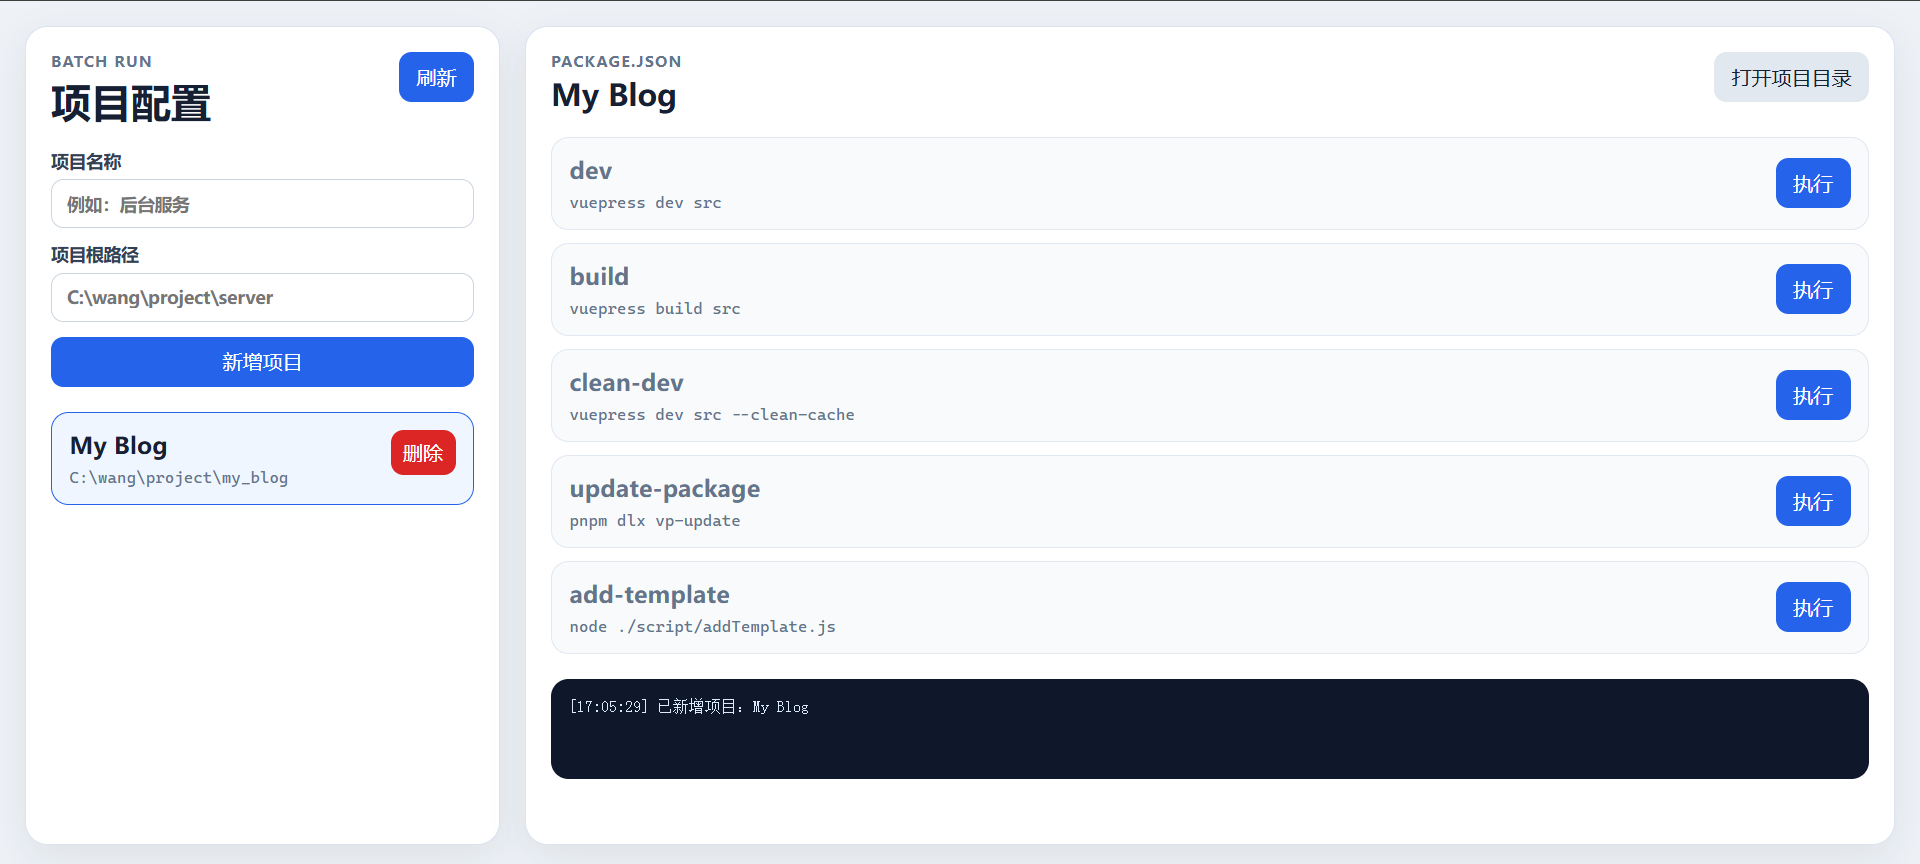
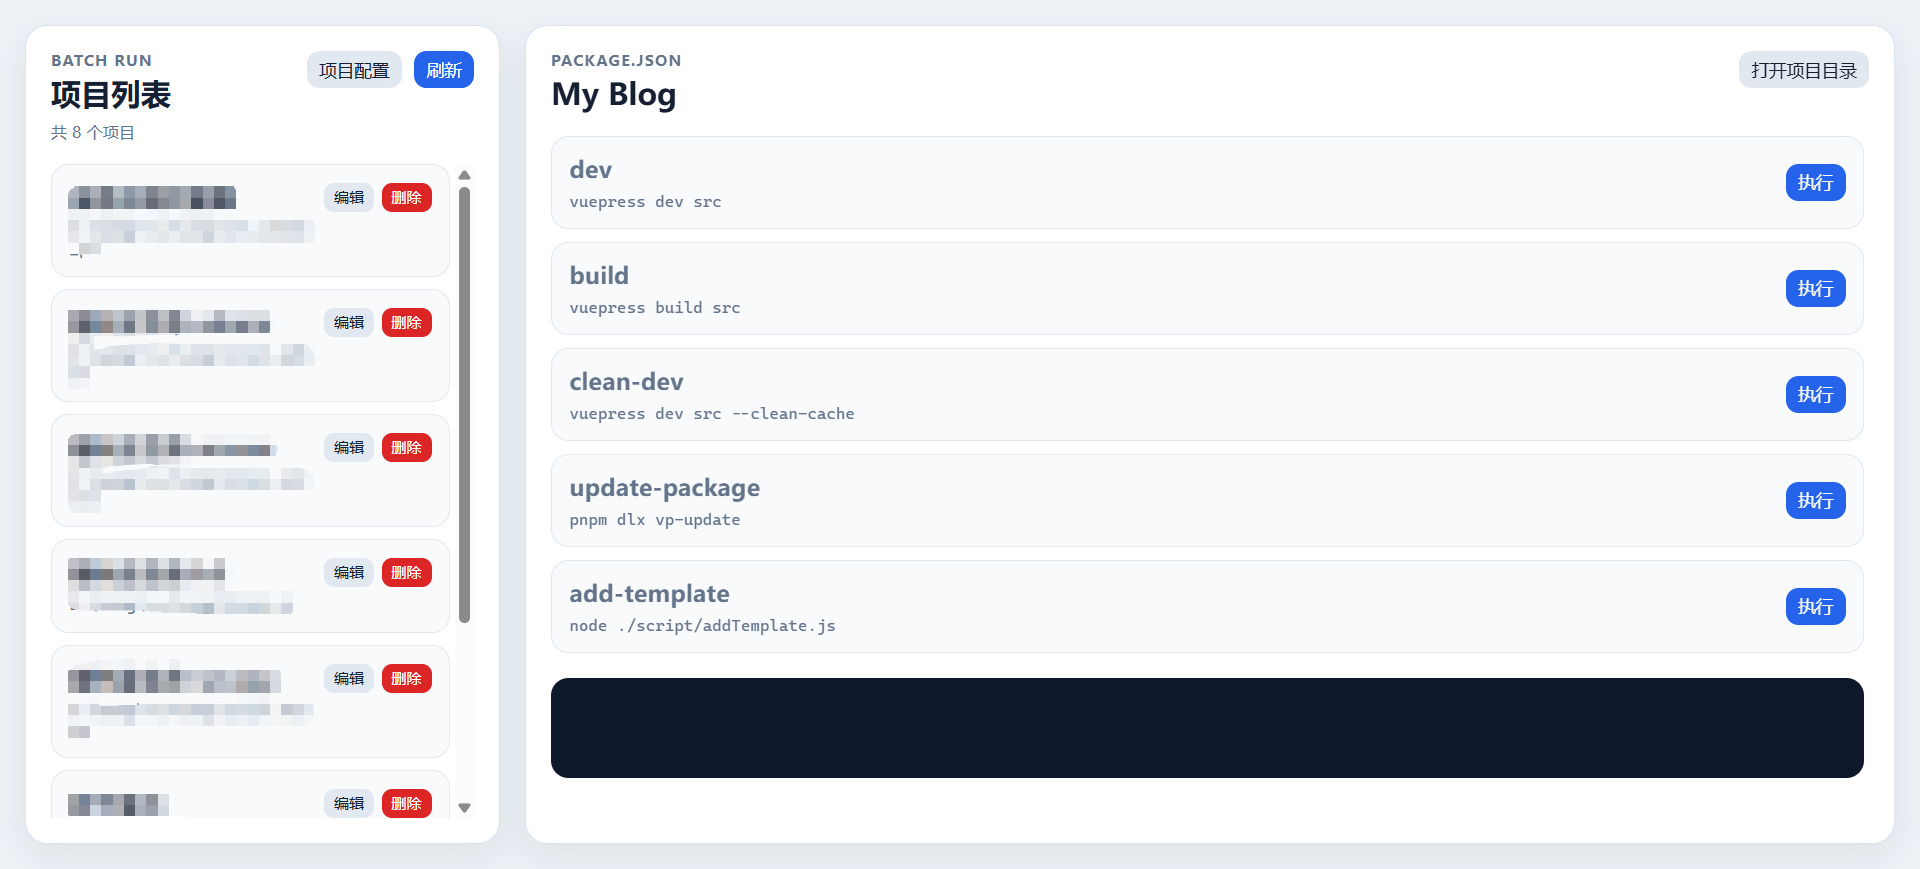
docs: 重新梳理文档

diff --git a/src/Tool/batch-run-local.md b/src/Tool/batch-run-local.md
@@ -39,9 +39,31 @@ npm install -g batch-run-local
 br
 ```
 
-直接执行 `br` 会打开交互菜单，可选择新增项目、启动项目、查看项目、删除项目、打开 Web 页面或修改配置。
+直接执行 `br` 会打开交互菜单，界面如下。
 
-## 3. 添加项目
+![br 命令菜单](./imgs/ui02.png)
+
+## 3. 可视化操作界面
+
+```shell
+br ui
+```
+
+执行后会启动本地服务并打开浏览器。
+
+![batch-run-local 可视化操作界面](./imgs/ui01.png)
+
+Web 页面支持：
+
+- 查看已配置项目。
+- 新增、编辑或者删除项目。
+- 读取项目 `package.json` 中的 `scripts`。
+- 点击按钮执行对应脚本。
+- 打开项目目录。
+
+## 4. 命令行式使用
+
+### 添加项目
 
 ```shell
 br add
@@ -58,20 +80,22 @@ br add
 
 ```text
 项目名称：my_blog
-项目根路径：C:\wang\project\my_blog
+项目根路径：C:\XXXX\project\my_blog
 ```
 
 项目根路径需要指向包含 `package.json` 的目录。工具会在运行时读取该文件中的 `scripts`，不需要单独维护脚本配置。
 
-## 4. 查看项目
+### 查看项目
 
 ```shell
 br list
 ```
 
-该命令会列出已添加的项目名称、项目 id 和项目路径。
+该命令会列出已添加的项目名称、项目 id 和项目路径，以及配置文件所在地址。
 
-## 5. 启动项目
+可直接修改配置文件，以便更快捷的全局修改。
+
+### 启动项目
 
 ```shell
 br run
@@ -97,24 +121,6 @@ br run
 npm run dev
 ```
 
-## 6. Web 管理页面
-
-```shell
-br ui
-```
-
-执行后会启动本地服务并打开浏览器。
-
-![batch-run-local Web 管理页面](./imgs/ui01.png)
-
-Web 页面支持：
-
-- 查看已配置项目。
-- 新增或删除项目。
-- 读取项目 `package.json` 中的 `scripts`。
-- 点击按钮执行对应脚本。
-- 打开项目目录。
-
 ## 7. Git Bash 路径配置
 
 工具默认会自动检测常见的 Git Bash 路径：
@@ -130,11 +136,7 @@ C:\Program Files (x86)\Git\git-bash.exe
 br config
 ```
 
-`br config` 也可以修改 Web 服务端口，默认端口为：
-
-```text
-1234
-```
+`br config` 也可以修改 Web 服务端口，默认端口为：`1234`
 
 ## 8. 删除项目
 